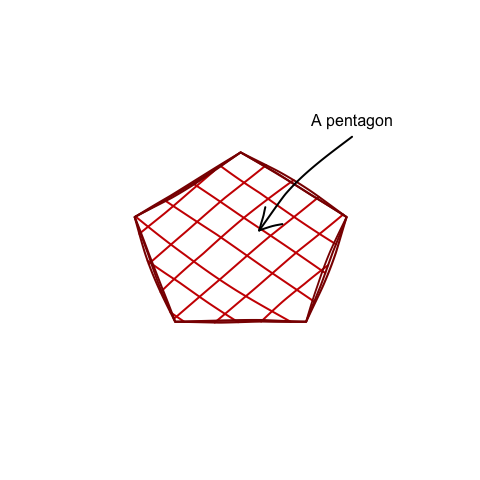
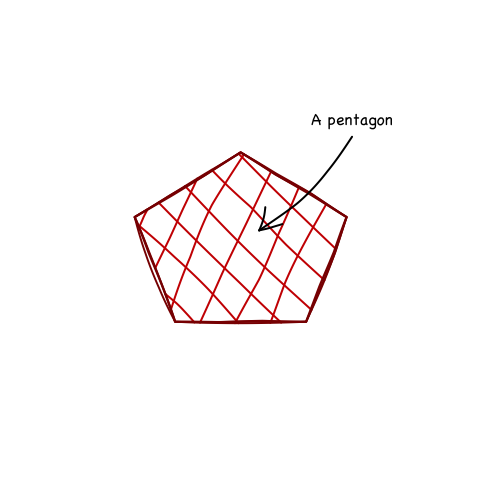
Update README, mention ggsave

Changed region(s): [[0.2812, 0.2188, 0.8125, 0.6875]]

diff --git a/README.md b/README.md
@@ -24,6 +24,9 @@ A base R barplot using a custom brush, plus a hand-drawn axis:
 ``` r
 library(mypaintr)
 
+# on the command line, do: 
+# mypaint_device("output.png")
+
 set_brush("tanda/acrylic-05-paint")
 barplot(VADeaths, axes = FALSE, 
         beside = TRUE, col = palette.colors(5), border = NA,
@@ -32,6 +35,8 @@ barplot(VADeaths, axes = FALSE,
 set_brush(NULL)
 set_hand(hand(wobble = 0))
 axis(side = 2, at = seq(0, 60, 20))
+
+# dev.off()
 ```
 
 ![](README_files/figure-gfm/unnamed-chunk-2-1.png)<!-- -->
@@ -49,6 +54,8 @@ ggplot(diamonds) +
     plot.background = element_mypaint_rect(fill = "white"),
     panel.grid = element_mypaint_line(colour = "grey")
   )
+
+# ggsave("output.png", device = mypaint_device)
 ```
 
 ![](README_files/figure-gfm/unnamed-chunk-3-1.png)<!-- -->
@@ -65,7 +72,7 @@ draw_rough_polygons(5 + 3 * sin(2*pi * 1:5/5), 5 + 3 * cos(2*pi * 1:5/5),
                     fill_pattern = crosshatch())
 
 draw_rough_arrows(8, 8.5, 5.5, 5.5, lwd = 2, hand = hand(bow = 0.05))
-text(8, 9, "A pentagon")
+text(8, 9, "A pentagon", family = "Chalkboard")
 ```
 
 ![](README_files/figure-gfm/unnamed-chunk-4-1.png)<!-- -->
